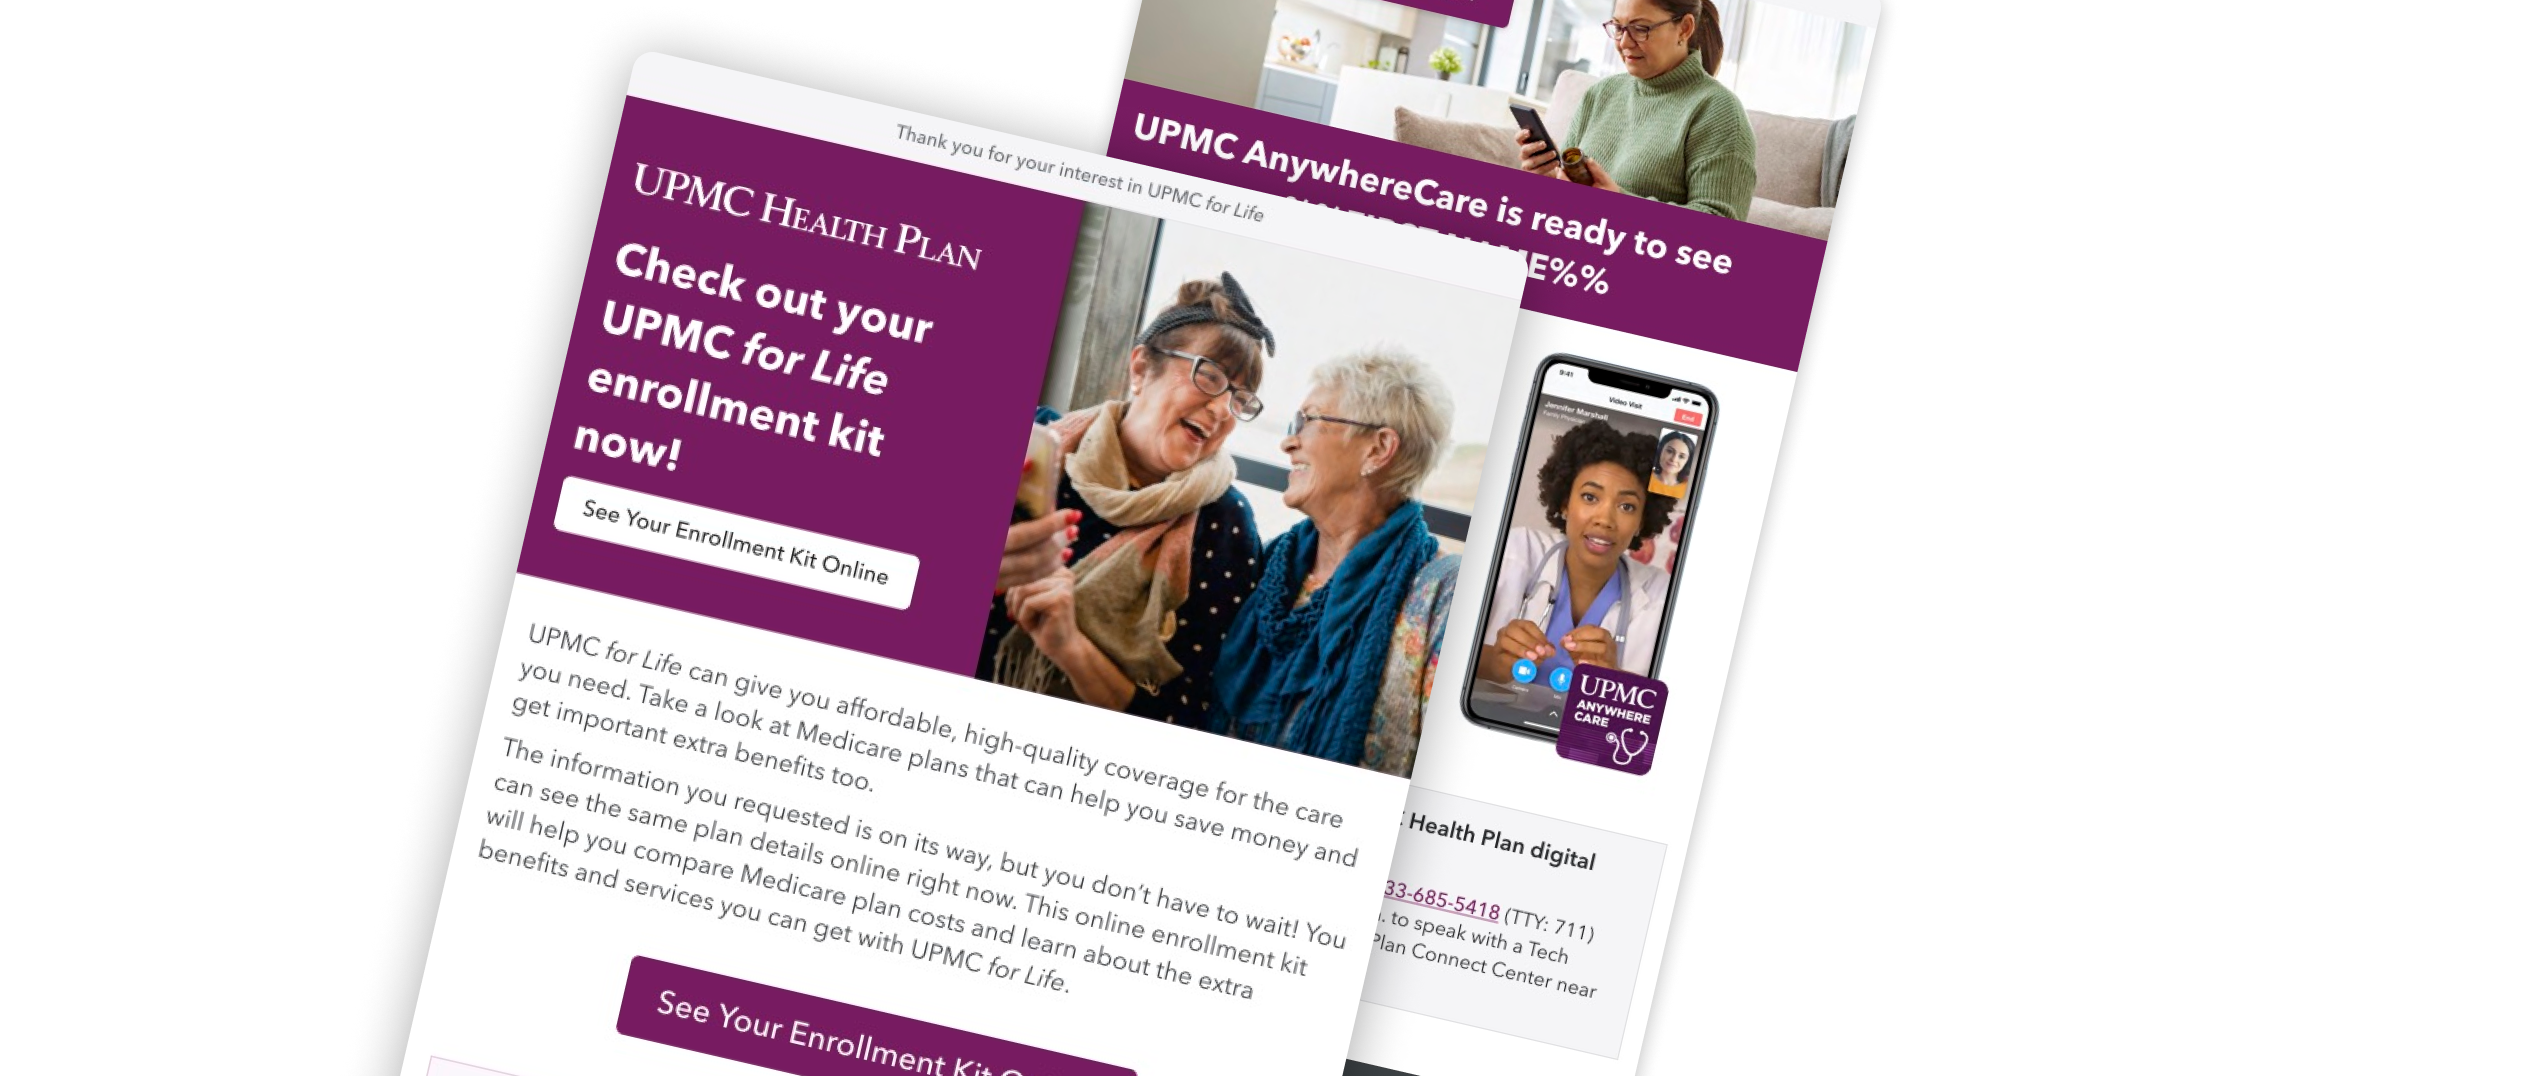
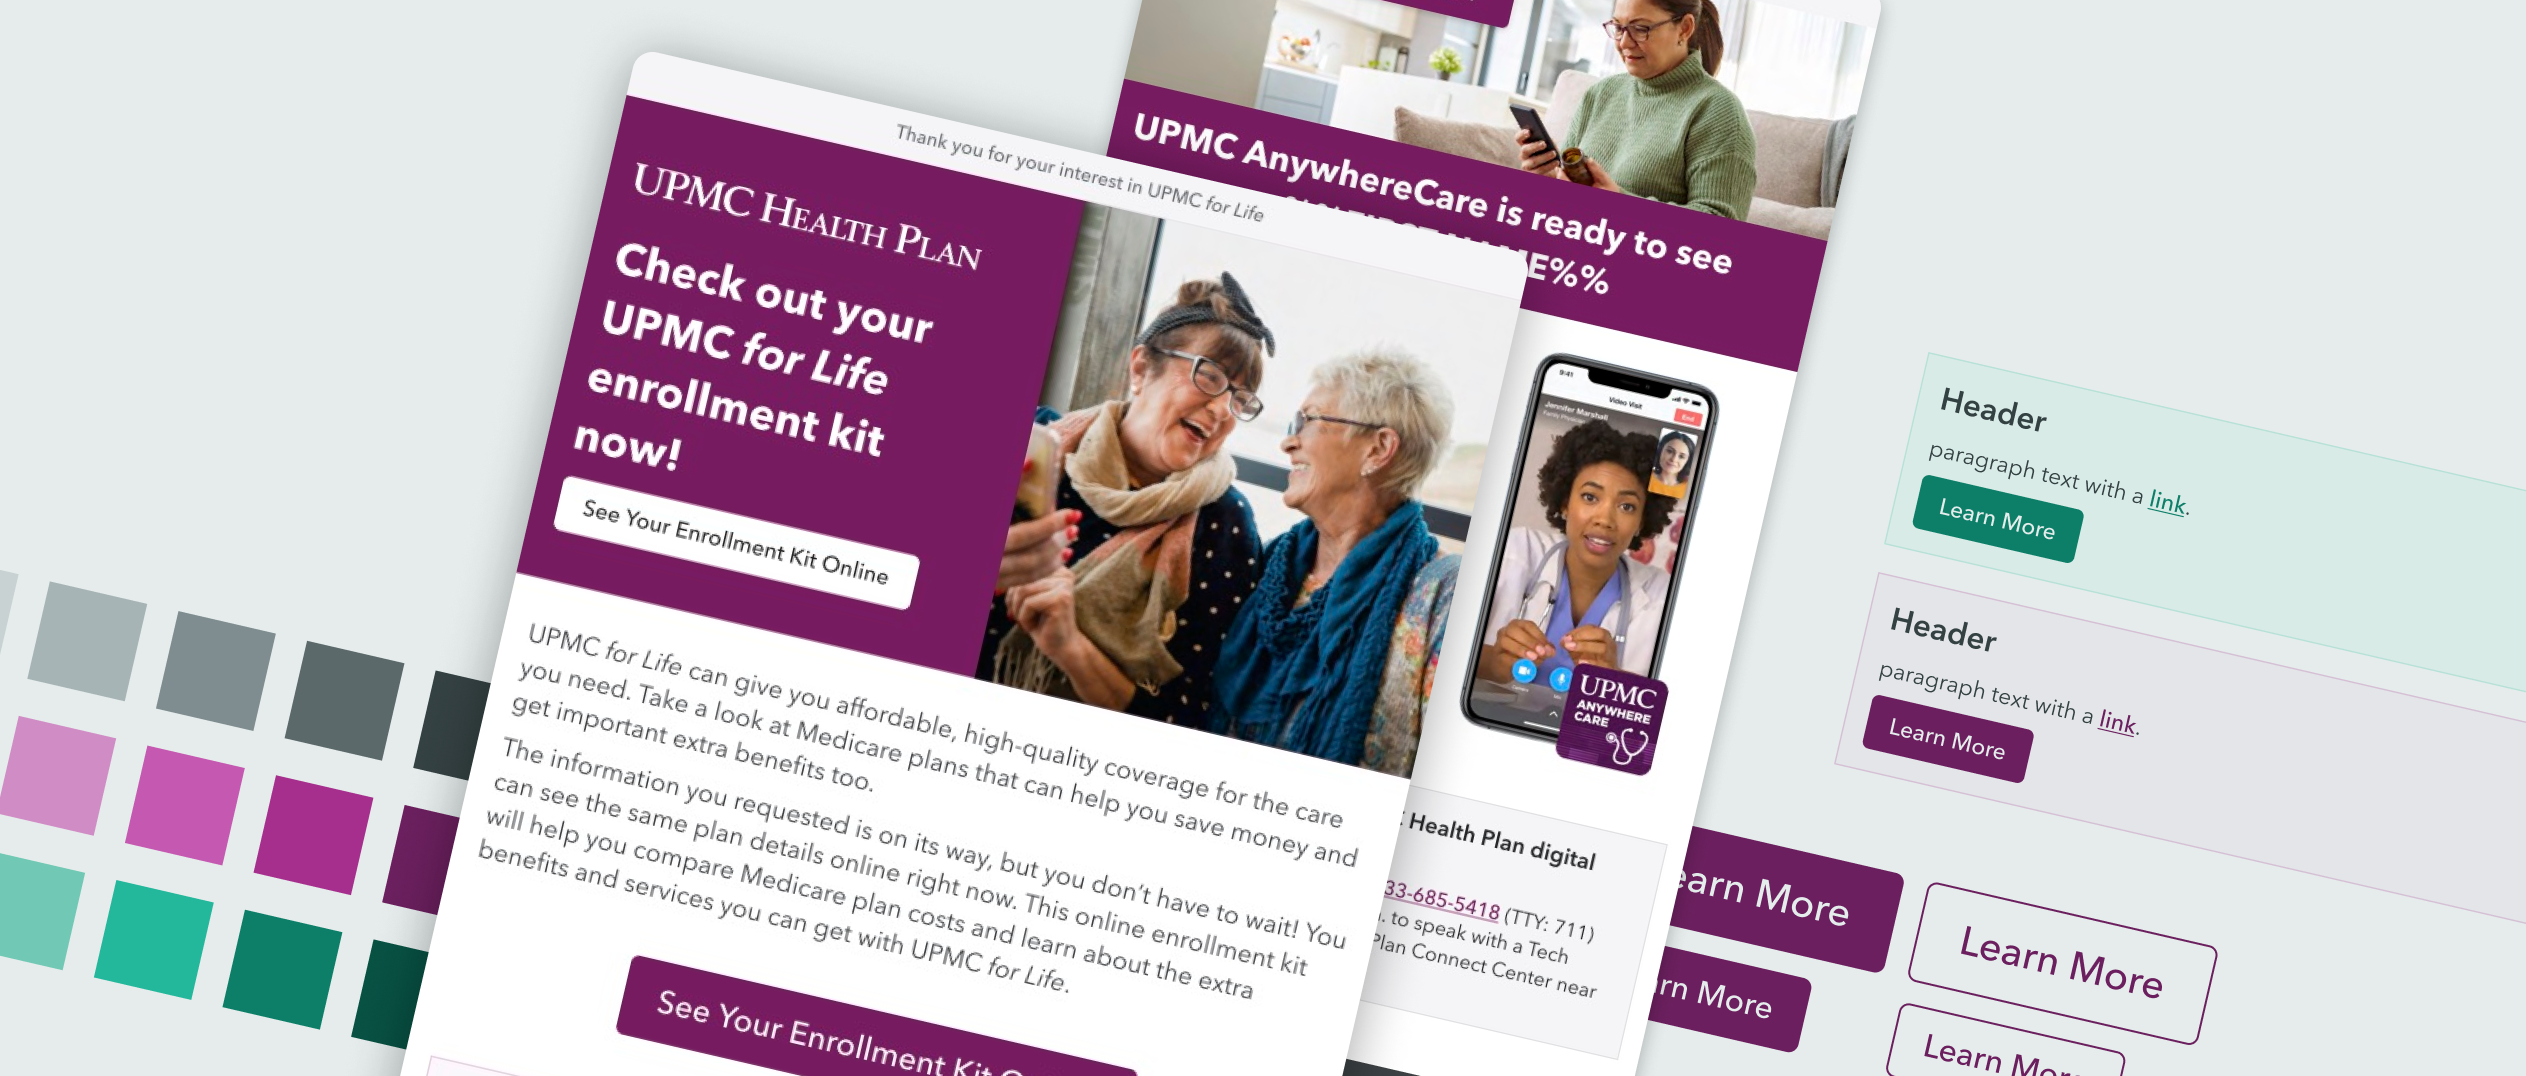
add images, archive old projects

diff --git a/pages/posts/[id].js b/pages/posts/[id].js
@@ -39,7 +39,13 @@ export default function Post({ postData, nextPostData }) {
         <title>{postData.title}</title>
       </Head>
       <section className='project-detail-intro'>
-        <img className='project-detail-intro-image' src={postData.introImage} alt='' />
+        <picture className='project-detail-intro-image'>
+          <source
+            srcset={`/images/${postData.introImage}-cover-mobile.jpg`}
+            media='(max-width: 600px)'
+          />
+          <img src={`/images/${postData.introImage}-cover.jpg`} alt='' />
+        </picture>
 
         <div className='project-detail-intro-content'>
           <div className='content-main'>

diff --git a/styles/global.scss b/styles/global.scss
@@ -524,7 +524,6 @@ header {
   display: flex;
   align-items: center;
   justify-content: center;
-  height: 500px;
   max-height: 70vh;
   object-fit: cover;
 }

diff --git a/posts/1-gif.md b/posts/1-gif.md
@@ -1,9 +1,9 @@
 ---
 title: 'GIFsearch'
-description: "I built this project while learning Angular and TypeScript. It utilizes the Giphy Search API to display gifs based on user provided keywords. My favorite feature is related to accessibility, it pauses the gif playback according to the user's prefers-reduced-motion settings."
+description: 'I built this project while learning Angular and TypeScript. It utilizes the Giphy Search API to display gifs based on user provided keywords. My favorite feature is related to accessibility, the gif playback pauses according to the users prefers-reduced-motion settings.'
 image: '/images/GIFsearch.svg'
 link: 'https://verdant-entremet-0d54ae.netlify.app/'
-introImage: '/images/gif-ui.png'
+introImage: 'gif'
 intro: 'My background is mostly in React, but I wanted to dip into Angular to broaden my knowledge. After learning the fundamentals of both Angular and TypeScript, I built a GIF search app that allows a user to search for GIFs by keyword, and copy the URL to their selected GIF. In addition to building the app, I designed the logo, UI components, and overall layout using Figma.'
 tags:
   - 'Angular'
@@ -16,13 +16,16 @@ tags:
 
 My journey into learning Angular started with the [Tour of Heroes](https://angular.io/tutorial/tour-of-heroes) tutorial project featured in the Angular documentation. This guide provided me with a solid foundational grasp of creating components, project structuring, and data fetching. Seeking to deepen my understanding, I found the [Angular Crash Course](https://www.youtube.com/watch?v=3dHNOWTI7H8) on YouTube, hosted by Traversy Media. This resource not only reinforced my grasp of the initial tutorial's concepts but also provided an alternate perspective on their practical application.
 
-Prior to embarking on this project, I had encountered TypeScript and grasped its fundamental principles, but I had not yet used it firsthand. However, embracing its syntax proved to be a seamless process, revealing its inherent value. While there's still more to explore in the realm of TypeScript, I'm eagerly anticipating the opportunity to integrate it into future projects.
+Prior to embarking on this project, I had encountered TypeScript and grasped its fundamental principles, but hadn't used it firsthand. I quickly understood the basic syntax and inherent value. While there's still more to explore in the realm of TypeScript, I'm eagerly anticipating the opportunity to use it in future projects.
 
 ## Designing the app UI
 
-Before diving into the code, I began by crafting a simple UI design using Figma. I kicked off the process by creating the logo, drawing inspiration from the search functionality. Establishing a complementary color palette to harmonize the UI components, I then turned my attention to shaping the functionality of the search component. One of my ambitious ideas was to emulate the gradient from the logo for the input's active state. Beyond that, I crafted additional components including the Autoplay toggle, GIF grid, and URL Copy notification.
+Before diving into the code, I began by crafting a simple UI design using Figma. I kicked off the process by creating the logo, drawing inspiration from the search functionality. Establishing a complementary color palette to harmonize the UI components, I then turned my attention to shaping the functionality of the search component. Beyond that, I crafted additional components including the Autoplay toggle, GIF grid results page, and URL Copy notification.
 
-You're welcome to view my [working Figma file](https://www.figma.com/file/AiK4ZExoQREqChBgzvVaU7/gif-search?type=design&node-id=0%3A1&mode=design&t=k47vOwgNFG9Go7T7-1).
+<figure class="project-detail-image">
+    <img src="/images/gif-design.png" alt="" />
+    <figcaption>Three designed screens in Figma: initial search, GIF grid results, and the URL Copy notification.</figcaption>
+</figure>
 
 ## Building the app
 

diff --git a/posts/0-email-design-system.md b/posts/0-email-design-system.md
@@ -2,7 +2,7 @@
 title: 'Email Design System'
 description: 'A branded design system for creating marketing emails built with Foundation for Emails, Figma, and Notion. Empowers strategy and design teams to design and code modern, responsive, and accessible email communications for all email clients.'
 image: '/images/email.svg'
-introImage: '/images/email-cover.png'
+introImage: 'email'
 intro: "UPMC Health Plan's marketing emails were facing significant challenges, lacking modern features essential for effective communication, such as mobile responsiveness, preheader text, and accessibility considerations. The absence of a streamlined process and toolset for email mockup and development made things harder than they needed to be. Collaborating closely with an Email Strategist, and the design team, I started a comprehensive analysis to identify goals achievable with a design overhaul. The culmination of this effort was the inception of a Design System, which would revolutionize our approach to email marketing."
 tags:
   - 'Figma'

diff --git a/posts/3-svg-map.md b/posts/3-svg-map.md
@@ -4,7 +4,7 @@ description: 'A user-friendly web app developed at UPMC Health Plan, enabling ef
 link: 'https://friendly-bubblegum-837166.netlify.app'
 image: '/images/map-generator.svg'
 intro: 'A React application that enables non-technical team members to create SVG coverage maps. Its intuitive interface and iterative improvements made it a valuable time-saving tool for various team members, while enhancing accessibility for all users.'
-introImage: '/images/CoverageMapGenerator.png'
+introImage: 'map'
 tags:
   - 'React'
   - 'SVG'
